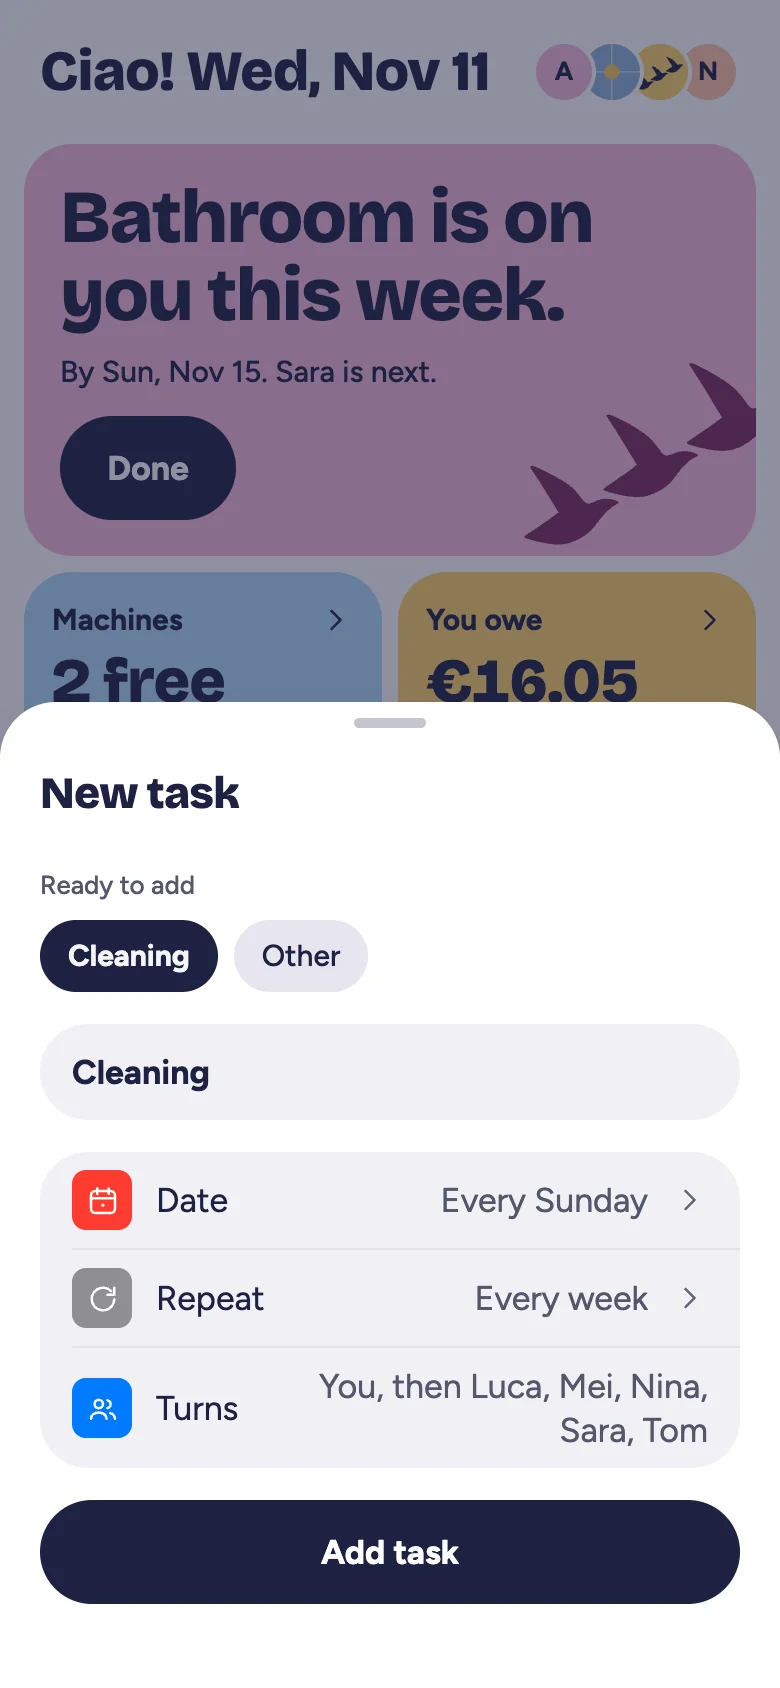
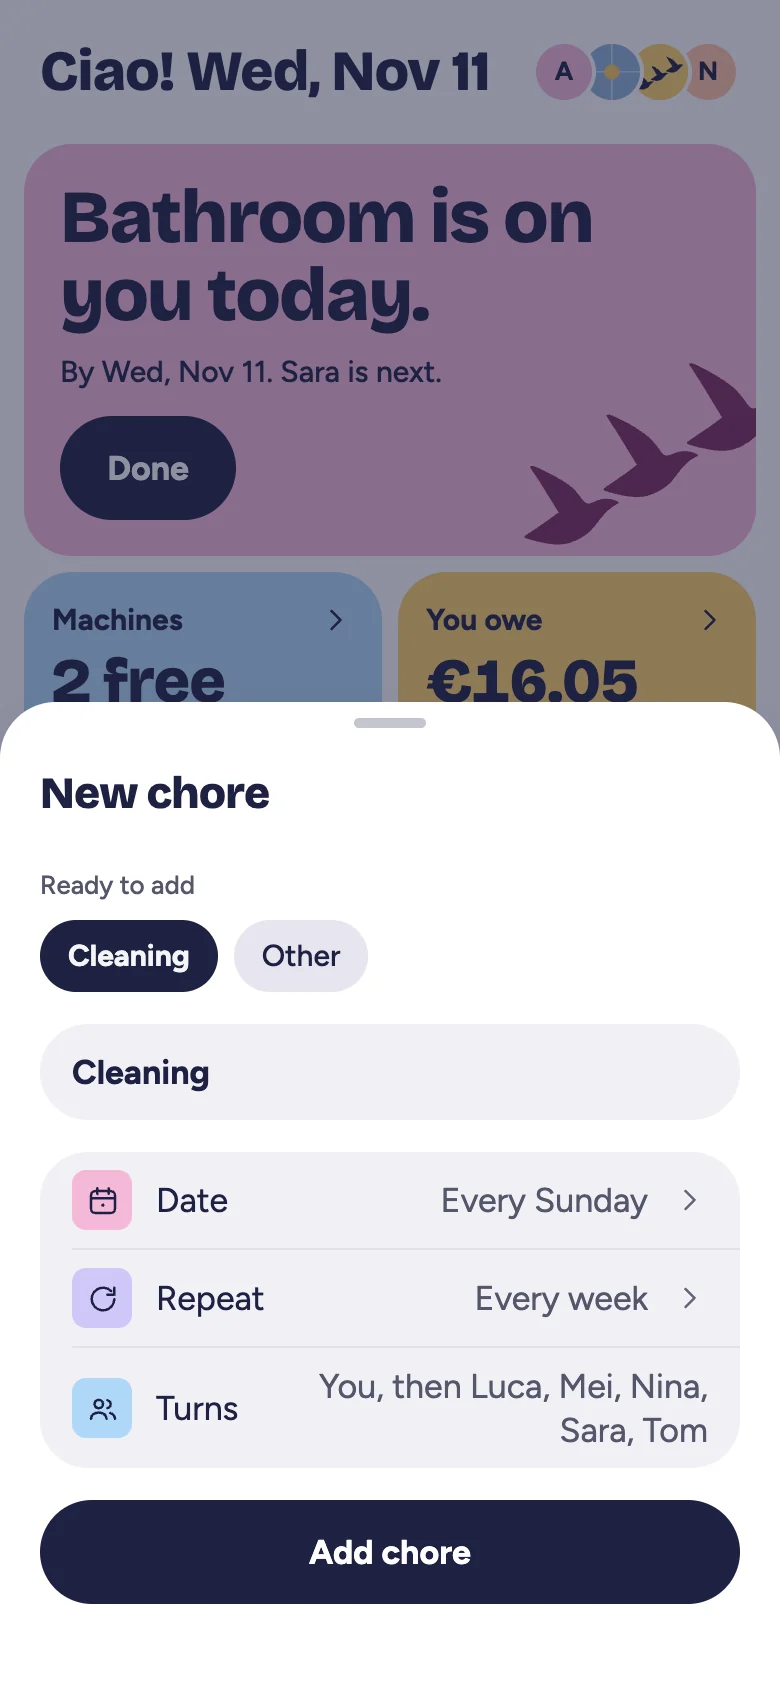
Site: chores and events, done on its day, six ways to ask
The app now calls the flat's shared jobs "chores" and your own calendar
entries "events", so the site does too. A chore is ticked off on its own day,
Ask the flat has a sixth kind (swap a turn), and the Today and New chore
screens are fresh from the app.

Claude-Session: https://claude.ai/code/session_01VsLBYYX3ni9rbxKN47d1dp

diff --git a/index.html b/index.html
@@ -4,7 +4,7 @@
 <meta charset="utf-8">
 <meta name="viewport" content="width=device-width, initial-scale=1">
 <title>Flock · A better way to live together</title>
-<meta name="description" content="Flock turns a shared flat into a small flock: jobs that go round fairly, one shopping list, money that stays square, and notes and requests instead of notes on the fridge. Opening in Rome and Milan first.">
+<meta name="description" content="Flock turns a shared flat into a small flock: chores that go round fairly, one shopping list, money that stays square, and notes and requests instead of notes on the fridge. Opening in Rome and Milan first.">
 <meta property="og:title" content="Flock · A better way to live together">
 <meta property="og:description" content="The app that turns a shared flat into a small flock. Opening in Rome and Milan first.">
 <meta property="og:image" content="assets/home-dinner.jpg">
@@ -55,7 +55,7 @@
     <div class="hero__in">
       <div class="hero__copy">
         <h1 id="hero-h" class="hero__h">A better way to live&nbsp;together</h1>
-        <p class="hero__lead">For people who share a flat. Flock turns your flat into a small flock. Jobs go round fairly, there&rsquo;s one shopping list, money stays square, and everyone knows what&rsquo;s going on.</p>
+        <p class="hero__lead">For people who share a flat. Flock turns your flat into a small flock. Chores go round fairly, there&rsquo;s one shopping list, money stays square, and everyone knows what&rsquo;s going on.</p>
         <div class="hero__ctas">
           <a class="btn btn--ink" href="#join">Join the flock</a>
           <a class="btn btn--line" href="#how">See how it works<svg aria-hidden="true"><use href="#i-down"/></svg></a>
@@ -124,18 +124,18 @@
       <div class="bento">
         <article class="tile tile--pink tile--tall" data-reveal>
           <div class="tile__text">
-            <h3 class="h3">Jobs that go round</h3>
-            <p>Bathroom, kitchen, rubbish: say how often, and Flock rotates whose turn it is. Next week&rsquo;s turn can&rsquo;t be ticked off early.</p>
+            <h3 class="h3">Chores that go round</h3>
+            <p>Bathroom, kitchen, rubbish: say how often, and Flock rotates whose turn it is. Each one is ticked off on its day, never early.</p>
           </div>
-          <figure class="phone phone--peek" data-ui><img src="assets/app/task.webp" width="780" height="1688" alt="New task, laid out like a new reminder: Cleaning, every Sunday, every week, turns starting with you" loading="lazy" decoding="async"></figure>
+          <figure class="phone phone--peek" data-ui><img src="assets/app/task.webp" width="780" height="1688" alt="New chore, laid out like a new reminder: Cleaning, every Sunday, every week, turns starting with you" loading="lazy" decoding="async"></figure>
         </article>
         <article class="tile tile--sky" data-reveal>
           <h3 class="h3">The washing machine</h3>
           <p>See which machine is free and who&rsquo;s using it, and get in line for the washer. Nobody queues for the dishwasher.</p>
         </article>
         <article class="tile tile--lilac" data-reveal>
-          <h3 class="h3">One calendar, two kinds of plans</h3>
-          <p>The flat&rsquo;s jobs and your private plans side by side. Your plans stay yours.</p>
+          <h3 class="h3">One calendar for chores and events</h3>
+          <p>The flat&rsquo;s chores and your own events side by side. Your events stay yours.</p>
         </article>
         <article class="tile tile--sun tile--tall" data-reveal>
           <div class="tile__text">
@@ -150,9 +150,9 @@
           <p>A photo, your initials, or one of twelve Flock birds in your colour.</p>
         </article>
         <article class="tile tile--ink" data-reveal>
-          <h3 class="h3">Five ways to ask the flat</h3>
-          <p>Quiet please, a party, a guest staying, borrowing or a hand: five ways to ask the flat, each answered in one tap.</p>
-          <ul class="mini" role="list"><li>Quiet, please</li><li>Party</li><li>Guest staying</li><li>Borrow</li><li>Help</li></ul>
+          <h3 class="h3">Six ways to ask the flat</h3>
+          <p>Quiet please, a party, a guest staying, borrowing, a hand, or swapping a turn: each answered in one tap.</p>
+          <ul class="mini" role="list"><li>Quiet, please</li><li>Party</li><li>Guest staying</li><li>Borrow</li><li>Help</li><li>Swap a turn</li></ul>
         </article>
       </div>
     </div>
@@ -163,7 +163,7 @@
       <div class="pact-wrap__copy">
         <h2 id="pact-h" class="h2">Fair, like a flock</h2>
         <p class="head__p">Birds flying in a V take turns at the front, where the air is hardest. Flock does the same for your flat: whoever led this week rests the next.</p>
-        <p class="head__p head__p--sm">Try it with your flat. Type who lives there and tick the jobs.</p>
+        <p class="head__p head__p--sm">Try it with your flat. Type who lives there and tick the chores.</p>
       </div>
       <form class="pact" id="pact-form">
         <div class="pact__inputs">
@@ -178,7 +178,7 @@
             </div>
           </fieldset>
           <fieldset class="pact__set">
-            <legend>Which jobs go round</legend>
+            <legend>Which chores go round</legend>
             <div class="pact__jobs">
               <label><input type="checkbox" name="job" value="Rubbish" checked> Rubbish</label>
               <label><input type="checkbox" name="job" value="Bathroom" checked> Bathroom</label>
@@ -216,7 +216,7 @@
         <h2 id="values-h" class="h2">Your flat, your business</h2>
         <ul class="values__list" role="list">
           <li><svg aria-hidden="true"><use href="#i-lock"/></svg><div><h3 class="h4">Only your flat sees your flat</h3><p>Turns, money and chat stay inside. Your landlord can&rsquo;t see them.</p></div></li>
-          <li><svg aria-hidden="true"><use href="#i-person"/></svg><div><h3 class="h4">Some things are just yours</h3><p>Your personal shopping list, your private plans and your personal expenses are seen by you alone.</p></div></li>
+          <li><svg aria-hidden="true"><use href="#i-person"/></svg><div><h3 class="h4">Some things are just yours</h3><p>Your personal shopping list, your events and your personal expenses are seen by you alone.</p></div></li>
           <li><svg aria-hidden="true"><use href="#i-undo"/></svg><div><h3 class="h4">Undo, not &ldquo;Are you sure?&rdquo;</h3><p>Most things show Undo for a few seconds. Only deleting asks first.</p></div></li>
           <li><svg aria-hidden="true"><use href="#i-chat"/></svg><div><h3 class="h4">Kinder than a note on the fridge</h3><p>Ask the flat, or pin a note without your name. Nobody has to be the bad guy.</p></div></li>
         </ul>
@@ -248,7 +248,7 @@
         <details class="qa" open><summary>When can we use it?</summary><p>Flock opens in Rome and Milan first. Join the flock below and we write once, the day it opens in your city.</p></details>
         <details class="qa"><summary>How do we sign in?</summary><p>With a six&#8209;digit code sent to your email, or with Sign in with Apple.</p></details>
         <details class="qa"><summary>Who can see our flat?</summary><p>Only the people in it. Turns, money and chat stay inside your flat, and your landlord can&rsquo;t see them. If we ever share numbers with a housing company, they will only cover flats that opted in, as totals that can&rsquo;t identify a flat or a person.</p></details>
-        <details class="qa"><summary>What&rsquo;s private to me?</summary><p>Your personal shopping list, your private plans on the calendar and your personal expenses. Flatmates never see them.</p></details>
+        <details class="qa"><summary>What&rsquo;s private to me?</summary><p>Your personal shopping list, your events on the calendar and your personal expenses. Flatmates never see them.</p></details>
         <details class="qa"><summary>What if I tap the wrong thing?</summary><p>Most actions show an Undo for a few seconds instead of asking whether you are sure. Only steps that delete something ask first.</p></details>
         <details class="qa"><summary>Which languages?</summary><p>English and Italian. Each flatmate picks their own.</p></details>
         <details class="qa"><summary>iPhone or Android?</summary><p>Both, with a light and a dark look that follows your phone.</p></details>

diff --git a/main.js b/main.js
@@ -21,7 +21,7 @@
     setTimeout(() => wait?.email.focus({ preventScroll: true }), reduce ? 0 : 500);
   }));
 
-  // The rota: people x jobs, moved one place a week. The front bird takes the lead's colour.
+  // The rota: people x chores, moved one place a week. The front bird takes the lead's colour.
   const PEOPLE = ['#7B2C5A', '#1D7A6F', '#5E52B5', '#2A6399', '#94600A'];
   const form = $('#pact-form');
   if (form) {
@@ -49,9 +49,9 @@
       const mark = $('.pact__mark');
       $('[data-out="week"]').textContent = `the week of ${short(start)}`;
       if (!names.length || !jobs.length) {
-        $('[data-out="lead"]').textContent = names.length ? 'Pick a job' : 'Add a name';
+        $('[data-out="lead"]').textContent = names.length ? 'Pick a chore' : 'Add a name';
         thisList.innerHTML = '';
-        table.innerHTML = '<tbody><tr><td>Turns appear here once you add names and jobs.</td></tr></tbody>';
+        table.innerHTML = '<tbody><tr><td>Turns appear here once you add names and chores.</td></tr></tbody>';
         return;
       }
       const lead = who(names, 0, 0);
@@ -75,7 +75,7 @@
     form.addEventListener('submit', async (e) => {
       e.preventDefault();
       const { names, jobs, start } = read();
-      if (!names.length || !jobs.length) { $('[data-out="status"]').textContent = 'Add at least one name and one job first.'; return; }
+      if (!names.length || !jobs.length) { $('[data-out="status"]').textContent = 'Add at least one name and one chore first.'; return; }
       const lines = [`Our rota, from the week of ${short(start)}`, ''];
       for (let w = 0; w < 5; w++) {
         const d = new Date(start); d.setDate(d.getDate() + 7 * w);
